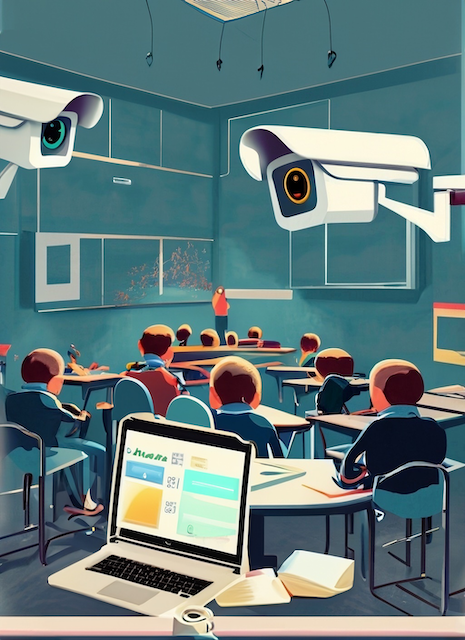
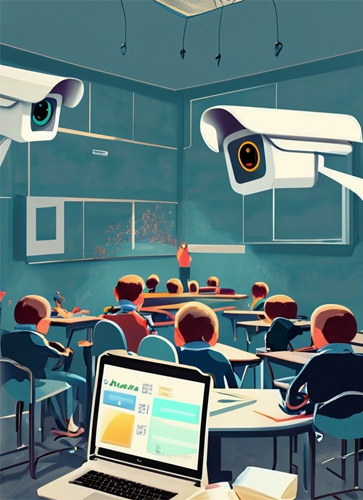
header

diff --git a/index.html b/index.html
@@ -123,7 +123,7 @@
                     <div class="col-lg-1 col-xl-4">
                         <div class="image-container">
                             <!--<img class="img-fluid" src="images/header-bulb-table.png" alt="alternative">-->
-                            <img class="img-fluid" src="images/header.png" alt="alternative">
+                            <img class="img-fluid" src="images/header.png" style='width: 500px;' alt="alternative">
                         </div>
                     </div>
                 </div>
